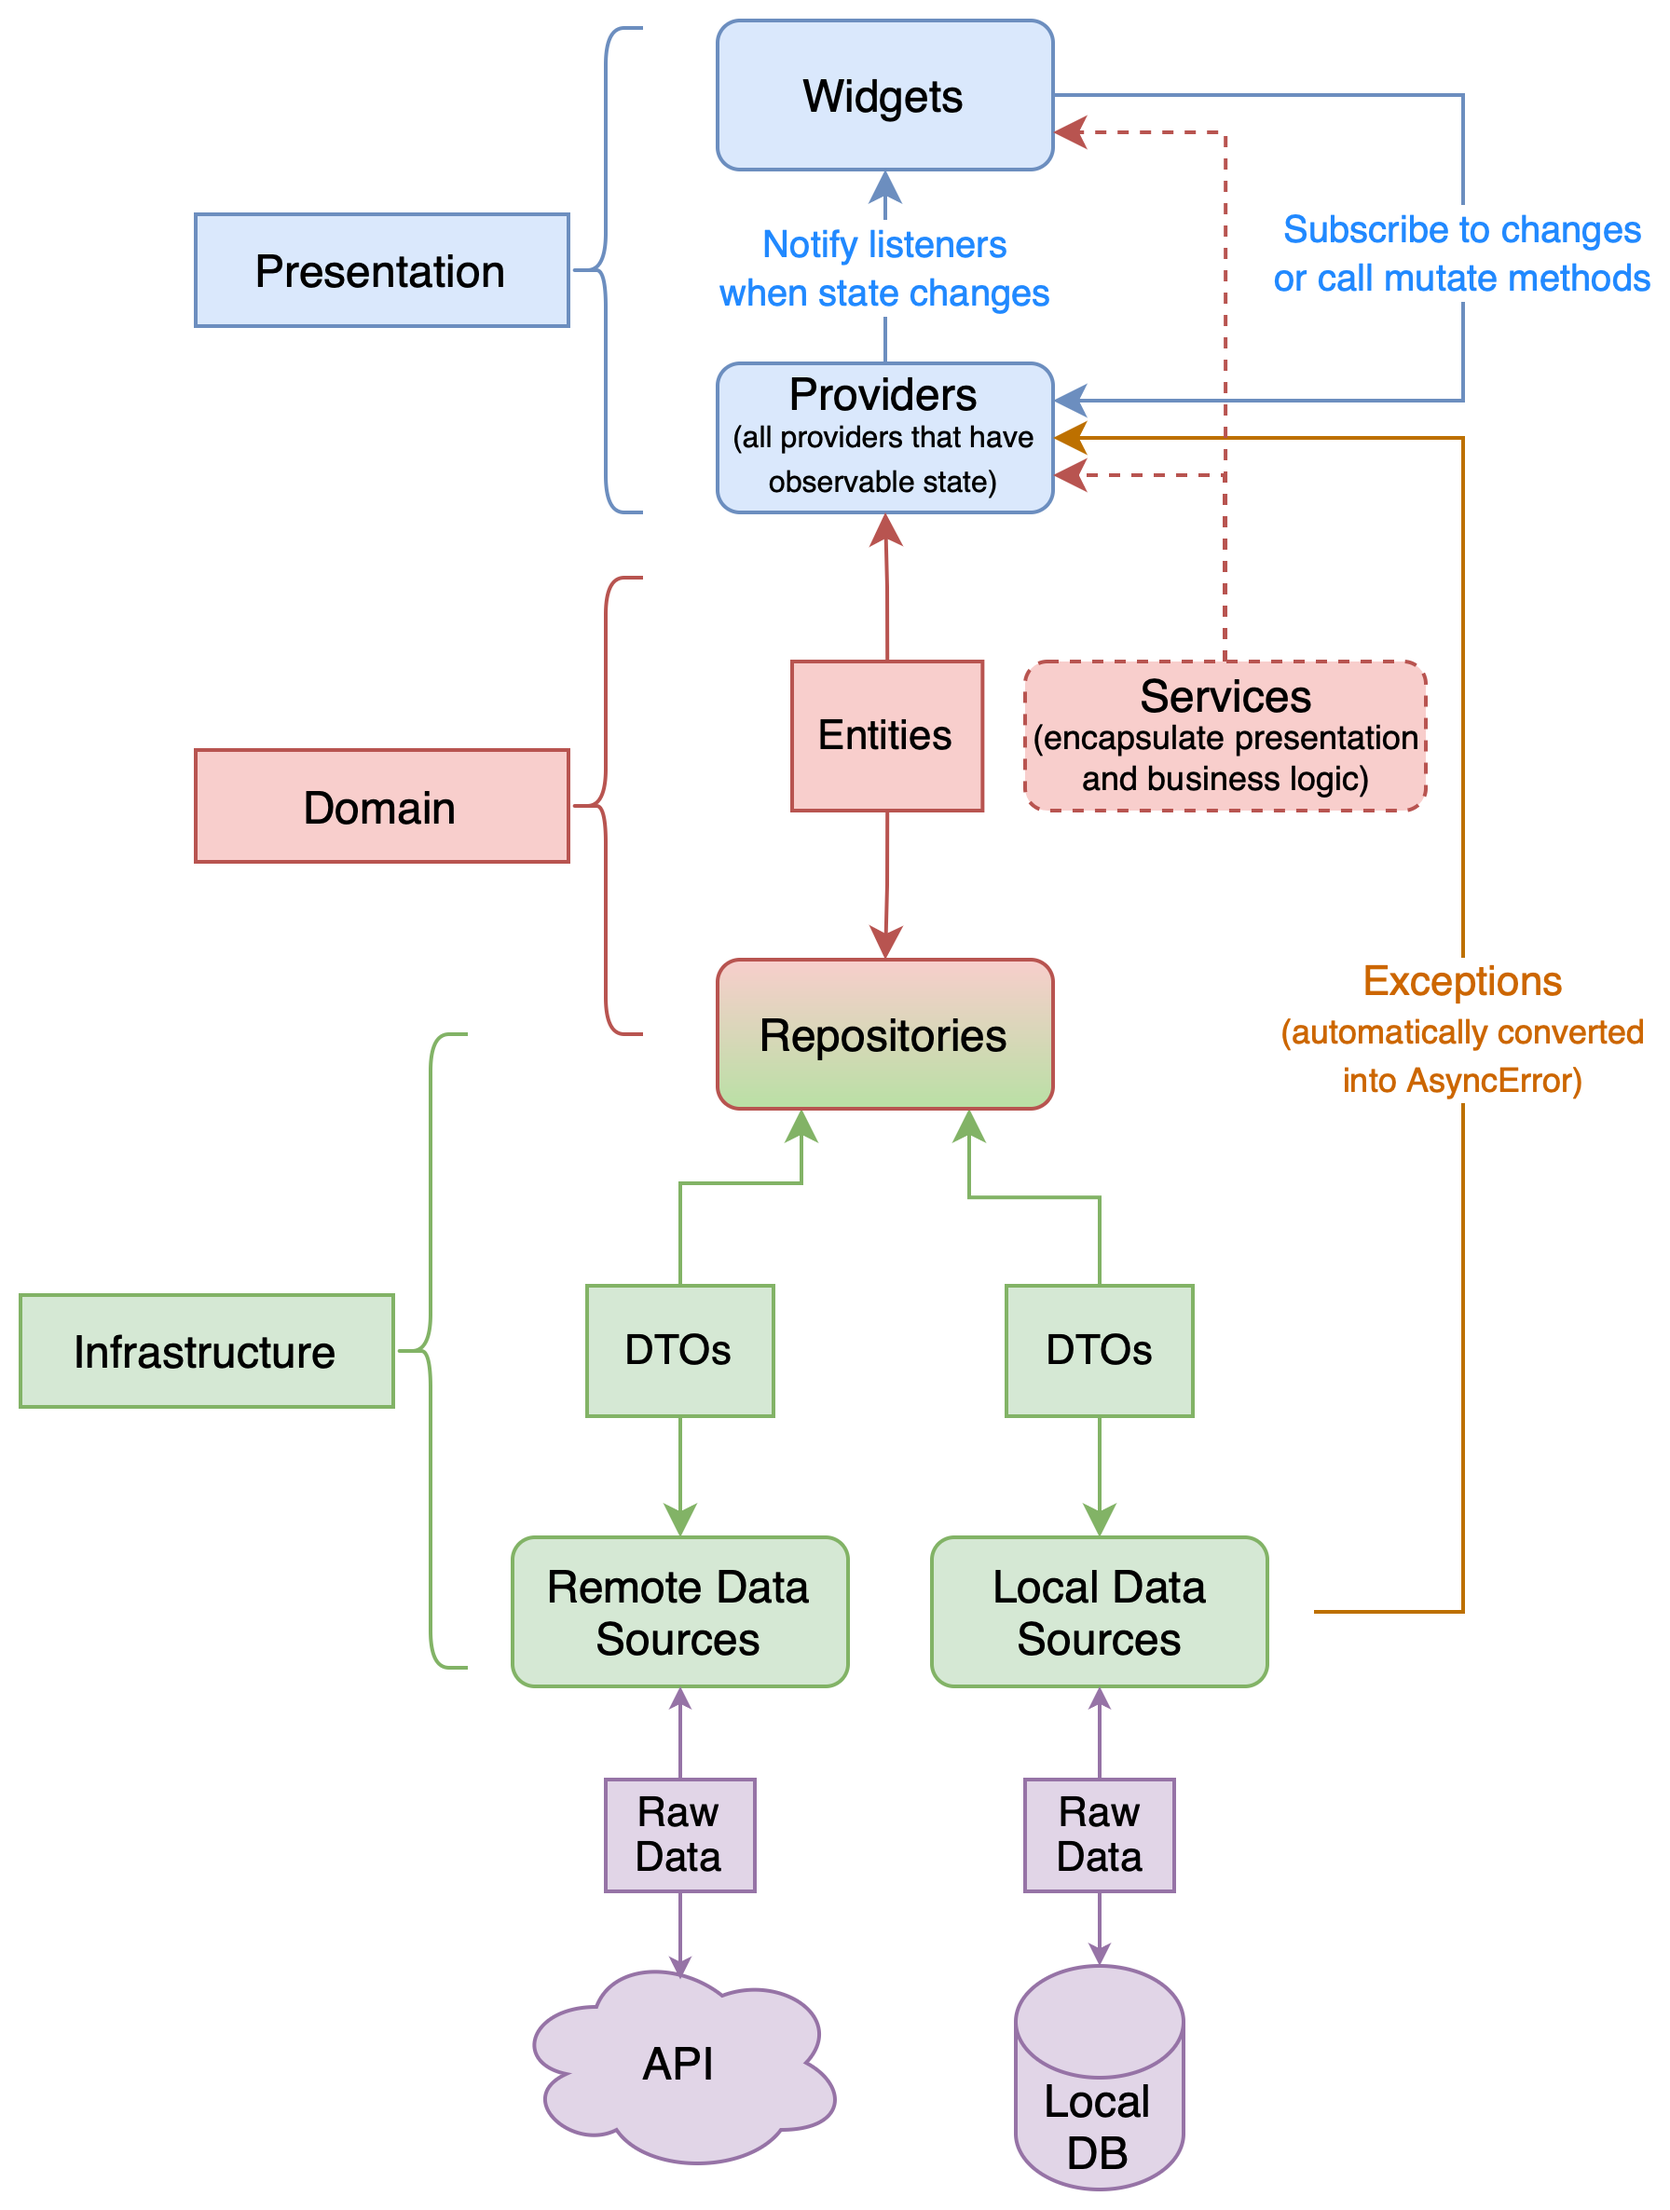
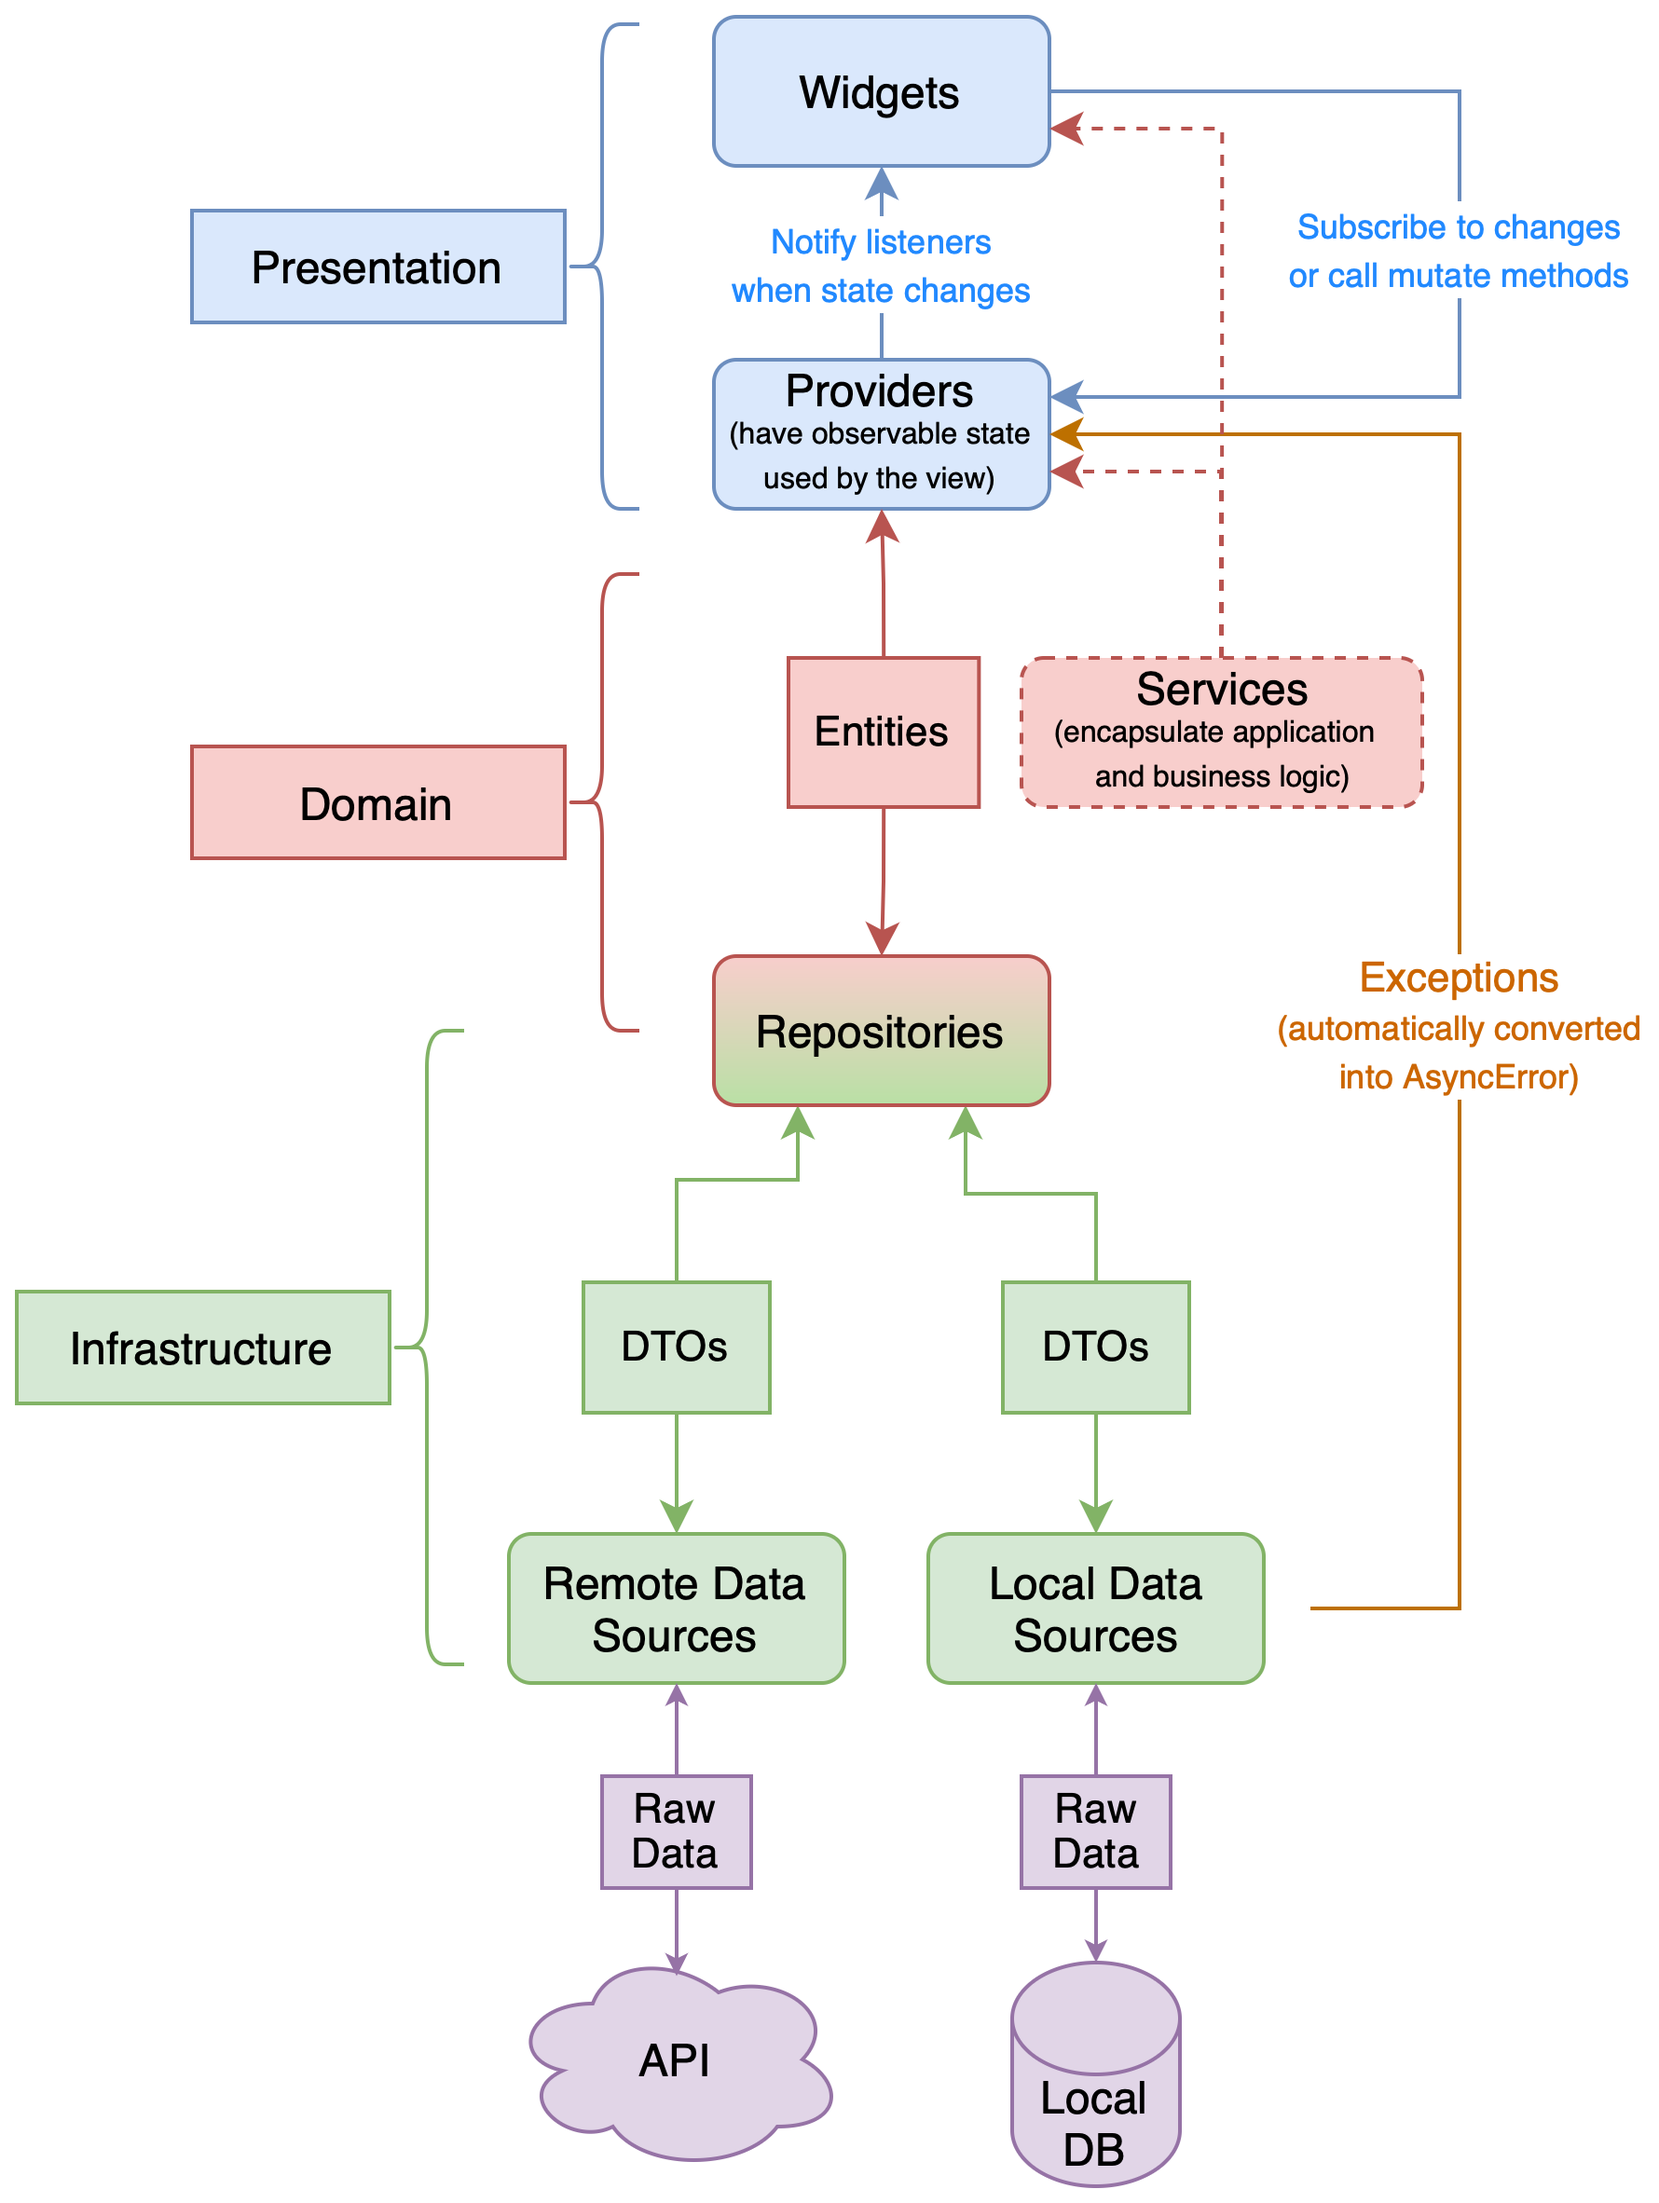
Update ReadMe

diff --git a/README.md b/README.md
@@ -19,11 +19,10 @@ Freezed, RxDart, FpDart and more.
       - presentation
         - screens
         - components
-        - widgets
-        - providers (all providers that have observable state)
+        - providers (all providers that have observable state used by the view)
       - domain
         - entities, aggregates and value objects
-        - services (encapsulate presentation and business logic, if any)
+        - services (encapsulate application and business logic, if any)
       - infrastructure
         - repos and facades
         - dtos
@@ -111,7 +110,7 @@ branches that implement TDD and Clean Architecture approach if you're interested
 - When the order arrive to the destination by (200 meter) employee responsible for the order will
   get local notification and will be able to confirm and call the client on the map.
 - If the delivery driver location changed with both (5seconds & 50meter change in distance), it'll
-  update delivery geoPoint on the backend (for all his current deliverying orders, so the clients
+  update delivery geoPoint on the backend (for all his current delivering orders, so the clients
   can listen to it) and will update map directions (for only the opened map, if any).
 - When new order is added to the backend (delivery order). All employees will get notification from
   FCM (works with app in foreground, background or terminated).
